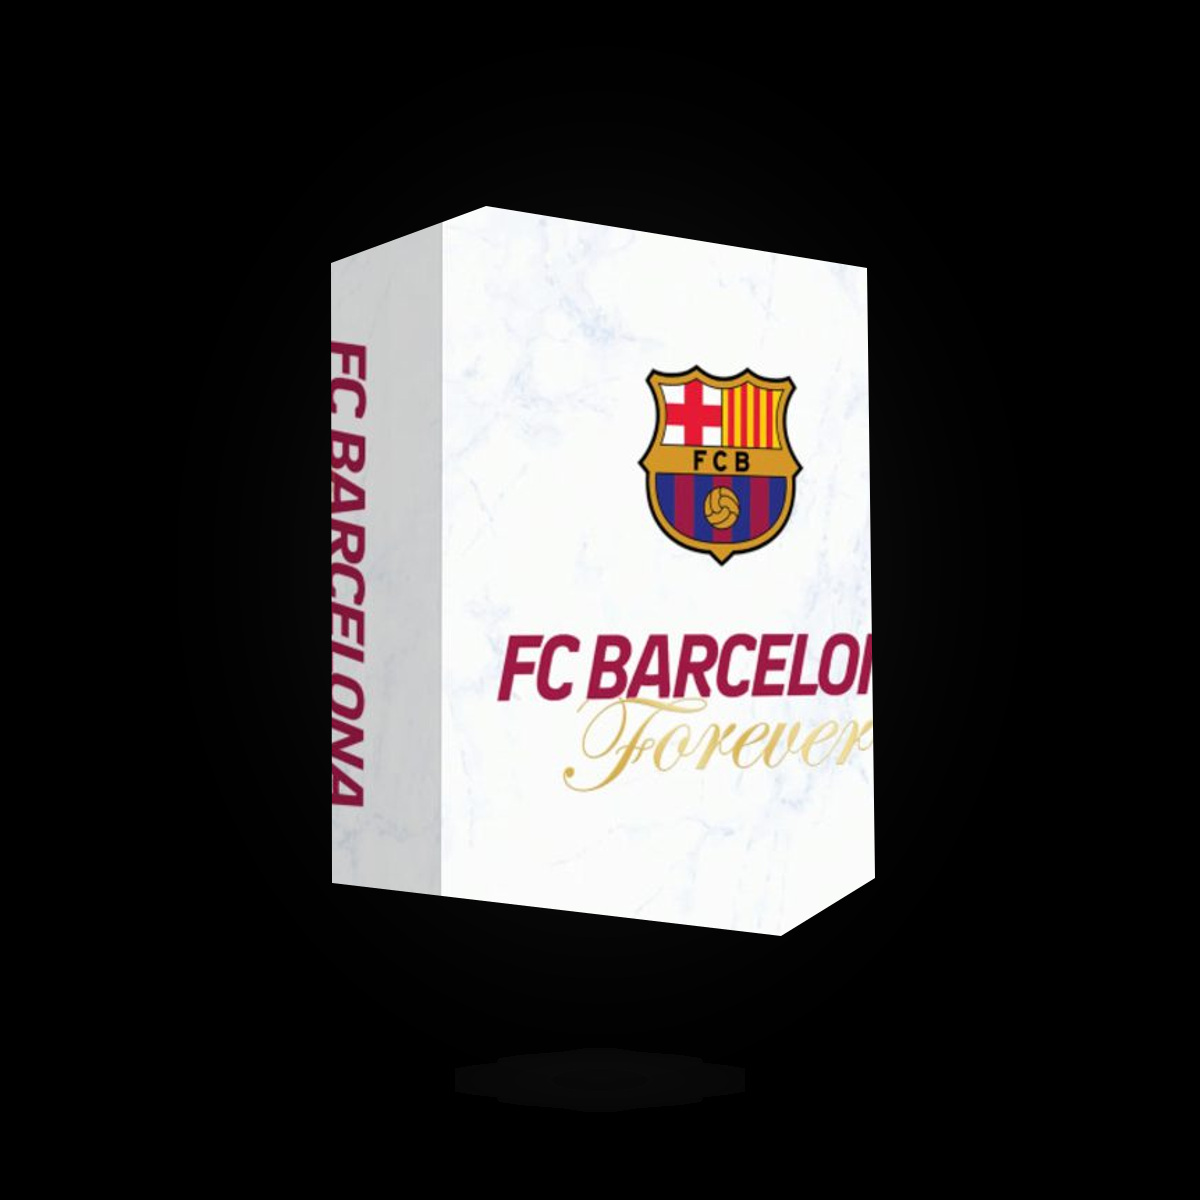
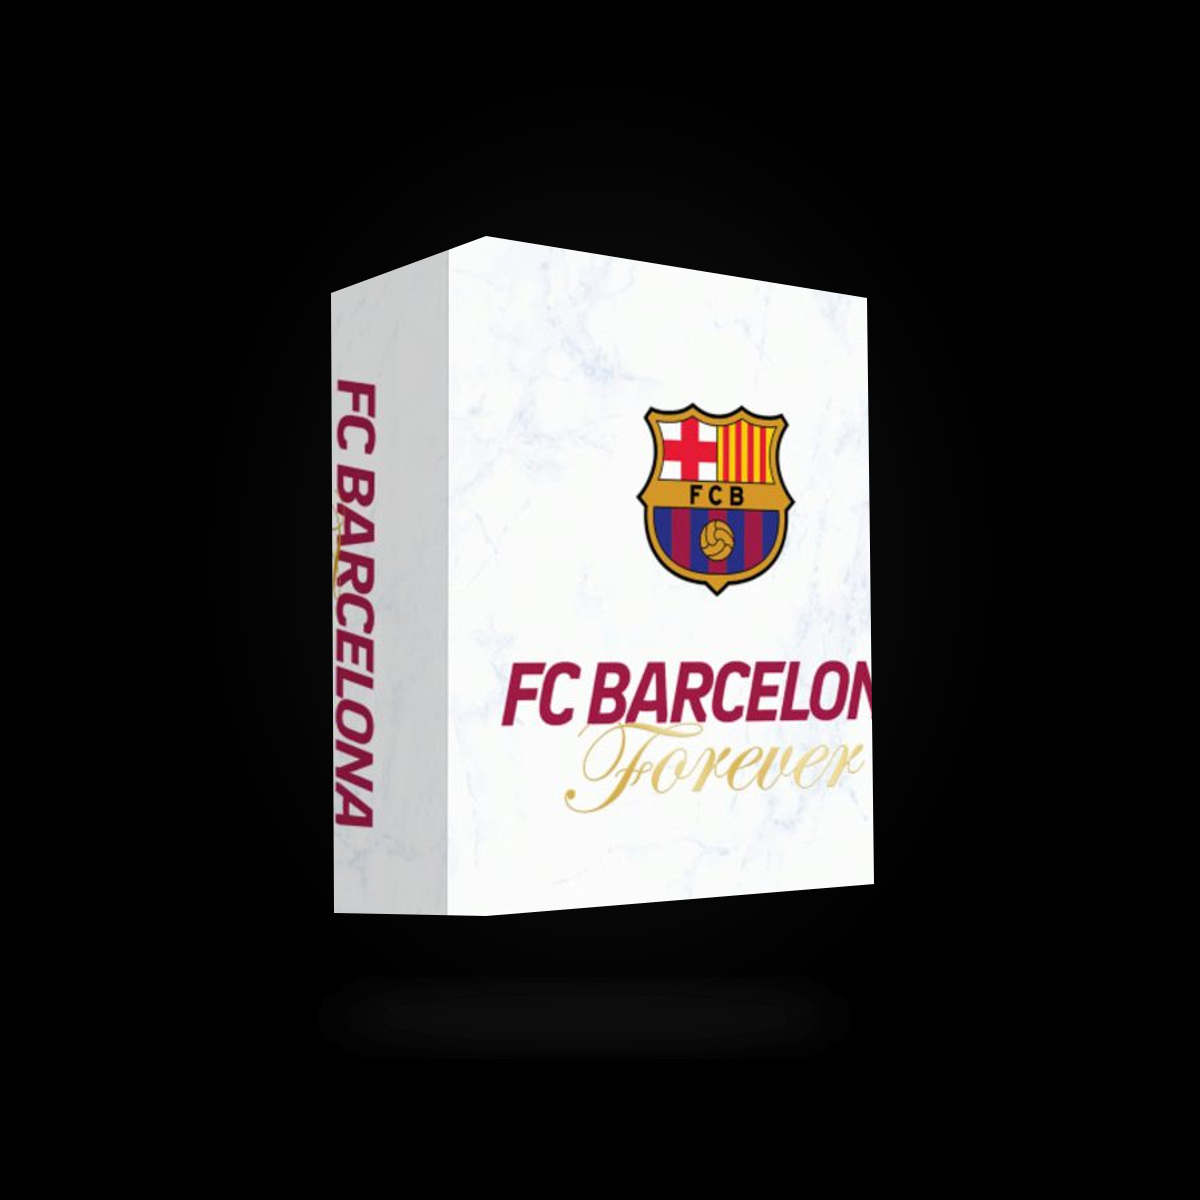
fix: ground Barcelona packaging render

diff --git a/tests/catalogue.test.ts b/tests/catalogue.test.ts
@@ -23,13 +23,26 @@ async function studioPackagingStats(imagePath: string) {
   const { data, info } = await sharp(imagePath).raw().toBuffer({ resolveWithObject: true });
   let blackPixels = 0;
   let brightPixels = 0;
+  let visibleMaxY = 0;
+  let lowerContactMinX = Number.POSITIVE_INFINITY;
+  let lowerContactPixels = 0;
 
   for (let index = 0; index < data.length; index += info.channels) {
+    const pixelIndex = index / info.channels;
+    const y = Math.floor(pixelIndex / info.width);
     const red = data[index];
     const green = data[index + 1];
     const blue = data[index + 2];
+    const visibleObjectPixel = red > 70 || green > 70 || blue > 70;
     if (red < 12 && green < 12 && blue < 12) blackPixels += 1;
     if (red > 190 && green > 190 && blue > 190) brightPixels += 1;
+    if (visibleObjectPixel) {
+      visibleMaxY = Math.max(visibleMaxY, y);
+      if (y === 910) {
+        lowerContactMinX = Math.min(lowerContactMinX, pixelIndex % info.width);
+        lowerContactPixels += 1;
+      }
+    }
   }
 
   const pixelCount = info.width * info.height;
@@ -38,6 +51,9 @@ async function studioPackagingStats(imagePath: string) {
     height: info.height,
     blackRatio: blackPixels / pixelCount,
     brightRatio: brightPixels / pixelCount,
+    visibleMaxY,
+    lowerContactMinX,
+    lowerContactPixels,
   };
 }
 const manchesterUnitedBaseFamilies = [
@@ -729,6 +745,9 @@ describe("Topps Forever FC Barcelona 2025-26 catalogue", () => {
     expect({ width: stats.width, height: stats.height }).toEqual({ width: 1200, height: 1200 });
     expect(stats.blackRatio).toBeGreaterThan(0.25);
     expect(stats.brightRatio).toBeGreaterThan(0.1);
+    expect(stats.visibleMaxY).toBeGreaterThan(900);
+    expect(stats.lowerContactMinX).toBeLessThan(400);
+    expect(stats.lowerContactPixels).toBeGreaterThan(180);
   });
 
   it("publishes every marketplace or official image that has been matched to an exact version", () => {
